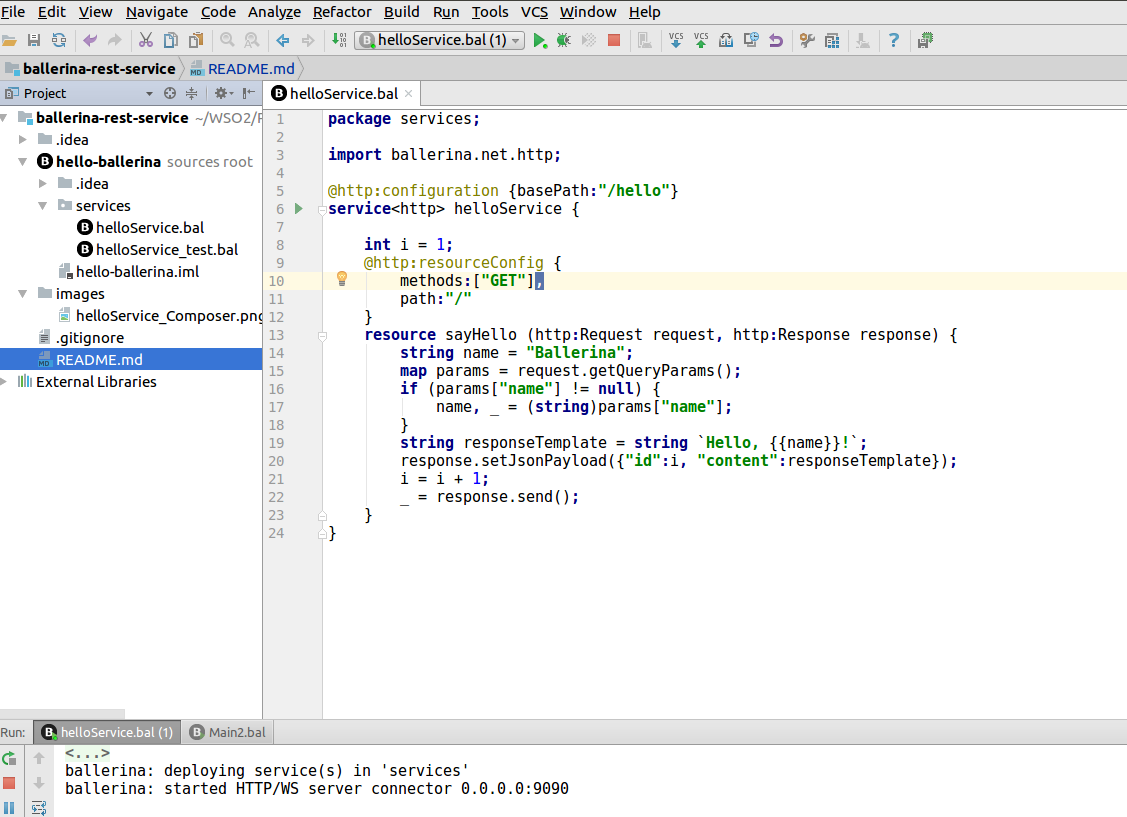
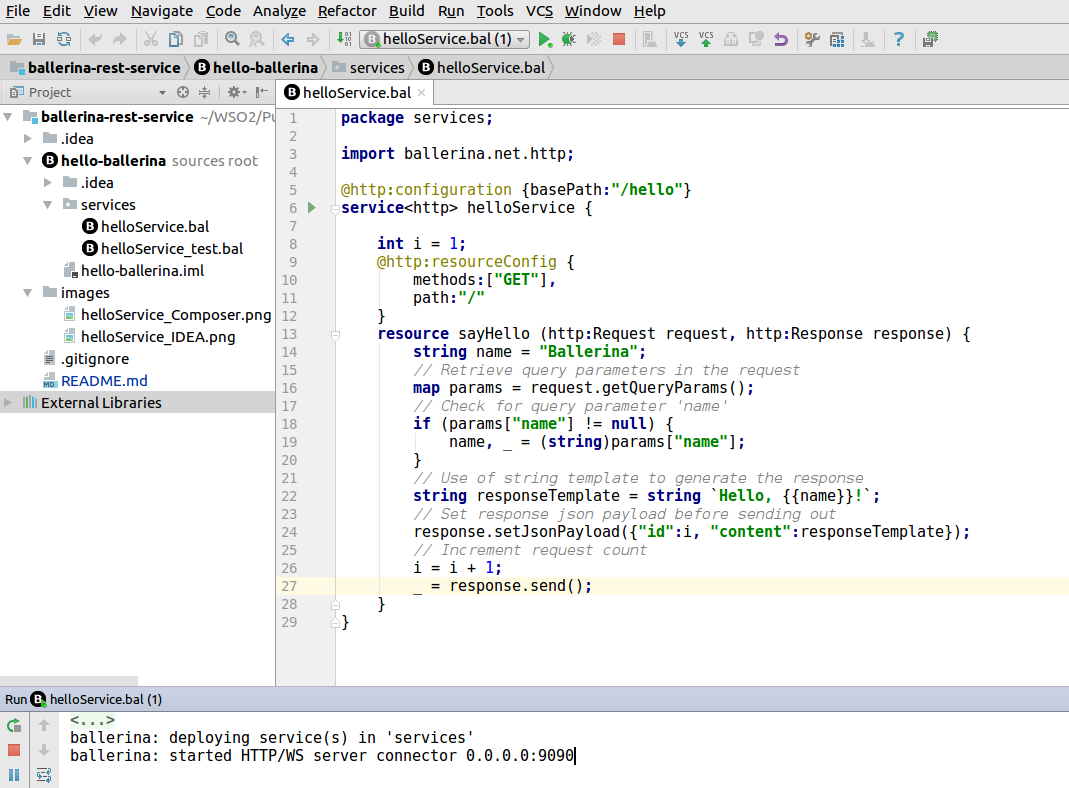
Updating README and image

Changed region(s): [[0.0, 0.0, 1.0, 0.7919], [0.0, 0.8528, 1.0, 1.0]]

diff --git a/README.md b/README.md
@@ -3,10 +3,18 @@ Following guide walks you through the step by step process of building a RESTful
 It also explains the development and deployment workflow of a standard Ballerina Service in-detail.
 
 - [What you'll build](#What-you-ll-build)
-
 - [Before you begin:  What you'll need](#what-you-ll-need)
-
 - [How to complete this guide](#how-to-complete-this guide)
+- [Writing the Service](#writing-the-service)
+- [Running Service in Command-line](#running-in-command-line)
+- [Running Service in Ballerina Composer](#running-in-composer)
+- [Running in Intellij IDEA](#running-in-intellij)
+- [Running in VSCode](#running-in-vscode)
+- [Test the Service](#test-service)
+- [Writing Test cases](#writing-test-cases)
+- [Creating Documentation](#creating-documentation)
+- [Running Service on Docker](#running-on-docker)
+- [Running Service on Cloud Foundry](#running-on-cloud-foundry)
 
 
 ## <a name="What-you-ll-build"></a> What you'll build
@@ -41,7 +49,7 @@ To skip the basics:
 Download and unzip the source repository for this guide in https://github.com/lasinducharith/ballerina-rest-service
 Skip "Writing the Service" section
 
-## Writing the Service
+## <a name="writing-the-service"></a> Writing the Service
 Create a new directory(Ex: hello-ballerina). Inside the directory, create a package(Ex: services). Ballerina package is another directory in the project hierarchy.
 Create a new file in your text editor and copy following content. Save the file with .bal extension (ex:helloService.bal) 
 ```
@@ -90,7 +98,7 @@ Post annotation constrains the resource only to accept post requests. Similarly,
 Ballerina supports extracting values both from PathParam and QueryParam. Query Parameters are read from a map.
 A string template **responseTemplate** holds the response string. In ballerina you could define a response structure or a json inline in the code. There is an incremental counter which returns the *id*, in the response.
 
-### Running Service in Command-line
+## <a name="running-in-command-line"></a> Running Service in Command-line
 You can run the ballerina service/application from the command line. Navigate to hello-ballerina directory and execute following command to compile and execute the ballerina program.
 
 ```
@@ -110,7 +118,7 @@ ballerina: deploying service(s) in 'services'
 ballerina: started HTTP/WS server connector 0.0.0.0:9090
 ```
 
-### Running Service in Ballerina Composer
+## <a name="running-in-composer"></a> Running Service in Ballerina Composer
 Start Composer https://ballerinalang.org/docs/quick-tour/quick-tour/#run-the-composer
 Navigate to File -> Open Program Directory, and pick the project folder (hello-ballerina). Click on helloService.bal.
 
@@ -119,18 +127,18 @@ Click on **Run**(Ctrl+Shift+R) button in the tool bar, to start the service
 ![alt text](https://github.com/lasinducharith/ballerina-rest-service/raw/master/images/helloService_Composer.png)
 
 
-### Running in Intellij IDEA
+## <a name="running-in-intellij"></a> Running in Intellij IDEA
 Refer https://github.com/ballerinalang/plugin-intellij/tree/master/getting-started to setup your IntelliJ IDEA environment with Ballerina.
 Open hello-ballerina project in IntelliJ IDEA and run helloService.bal
 
 ![alt text](https://github.com/lasinducharith/ballerina-rest-service/raw/master/images/helloService_IDEA.png)
 
 
-### Running in VSCode
+## <a name="running-in-vscode"></a> Running in VSCode
 <TODO>
 
 
-## Test the Service
+## <a name="test-service"></a> Test the Service
 Now that the service is up, visit http://localhost:9090/hello where you see:
 ```
 {"id":1,"content":"Hello, Ballerina!"}
@@ -140,7 +148,7 @@ Provide a name query parameter with http://localhost:9090/hello?name=User. Notic
 {"id":1,"content":"Hello, User!"}
 ```
 
-## Writing Test cases
+## <a name="writing-test-cases"></a> Writing Test cases
 
 Create a new ballerina file inside *services* directory (Ex:helloService_test.bal). Make sure your test file ends with _test.bal to mark it as a testerina file.
 Refer Testerina Test framework for more information https://github.com/ballerinalang/testerina
@@ -194,20 +202,20 @@ result:
 tests run: 1, passed: 1, failed: 0
 ```
 
-##### Running Test case using .balx
+#### Running Test case using .balx
 
 ```
 $ballerina build services/
 $ballerina test services.balx
 ```
 
-## Creating Documentation
+## <a name="creating-documentation"></a> Creating Documentation
 <TODO>
 
-## Run Service on Docker
+## <a name="running-on-docker"></a> Running Service on Docker
 
 Container support for Ballerina provides the implementation for packaging Ballerina programs with Docker using **ballerina docker** command.
-Refer https://github.com/ballerinalang/container-support for setting up ballerina container support.
+Refer https://github.com/ballerinalang/container-support for setting up ballerina container-support.
 
 
 ```
@@ -247,7 +255,7 @@ ballerina: started HTTP/WS server connector 0.0.0.0:9090
 ```
 
 
-## Run Service on Cloud Foundry
+## <a name="running-on-cloud-foundry"></a> Running Service on Cloud Foundry
 <TODO>
 
 
